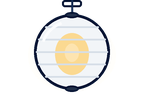
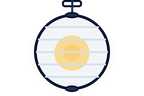
wip: decor sprites autosave
Claude-Session: https://claude.ai/code/session_01MjAECvXWDY5nMr1AZDbAwP

diff --git a/hotel-city-tycoon/tools/art/decor_bedrooms.py b/hotel-city-tycoon/tools/art/decor_bedrooms.py
@@ -513,29 +513,32 @@ def wallArt_bedsideSconce(c: Canvas) -> None:
     wedge is what fills the canvas the frame would have.
     """
     cx, cy = c.w / 2, c.h / 2
-    plate = (cx - 15.0, cy - 12.0)
-    elbow = (cx - 4.0, cy - 25.0)
+    plate = (cx - 18.0, cy - 10.0)
+    elbow = (cx - 4.0, cy - 27.0)
     tilt = math.radians(24.0)
     # The drum's axis points down and to the left, toward the bed.
     dx, dy = -math.sin(tilt), math.cos(tilt)
     px, py = math.cos(tilt), math.sin(tilt)
-    sc = (cx + 8.0, cy - 15.0)
-    half_w, half_h = 10.0, 7.0
+    sc = (cx + 11.0, cy - 14.0)
+    half_w, half_h = 12.0, 8.5
 
-    # The fan of light: three nested wedges from the mouth of the shade, at
-    # the low opacities `_glow` uses, aimed a little left of straight down.
+    # The fan of light: three nested wedges from the mouth of the shade,
+    # aimed a little left of straight down. Warmer than `_glow`'s halo and a
+    # step more opaque, because this room's wall is cream and a cream glow
+    # on a cream wall is no glow at all.
     ax, ay = sc[0] + dx * (half_h + 1.0), sc[1] + dy * (half_h + 1.0)
-    for r, a in ((42.0, 0.08), (32.0, 0.09), (22.0, 0.11)):
-        c.pie(ax, ay, r, r, 50, 152, fill=alpha(P["creamHi"], a))
+    warm = mix(P["cream"], GOLD, 0.45)
+    for r, a in ((42.0, 0.13), (32.0, 0.14), (22.0, 0.16)):
+        c.pie(ax, ay, r, r, 50, 152, fill=alpha(warm, a))
 
     # The backplate and the arm.
-    c.circle(plate[0], plate[1], 8.5, fill=GOLD, ink=P["ink"], lw=LW_PROP)
-    c.circle(plate[0], plate[1], 5.0, fill=tint(GOLD, 0.28), ink=P["ink"], lw=LW_FACE)
-    c.circle(plate[0] - 3.4, plate[1] - 3.4, 1.4, fill=GOLD_HI)
+    c.circle(plate[0], plate[1], 10.0, fill=GOLD, ink=P["ink"], lw=LW_PROP)
+    c.circle(plate[0], plate[1], 6.0, fill=tint(GOLD, 0.28), ink=P["ink"], lw=LW_FACE)
+    c.circle(plate[0] - 4.0, plate[1] - 4.0, 1.6, fill=GOLD_HI)
     top = (sc[0] - dx * half_h, sc[1] - dy * half_h)
-    _tube(c, [plate, elbow, top], 2.8, GOLD)
+    _tube(c, [plate, elbow, top], 3.2, GOLD)
     for jx, jy in (plate, elbow):
-        c.circle(jx, jy, 2.4, fill=GOLD_DK, ink=P["ink"], lw=LW_FACE)
+        c.circle(jx, jy, 2.7, fill=GOLD_DK, ink=P["ink"], lw=LW_FACE)
 
     # The drum: a rotated rectangle with pleat lines along its axis, a dark
     # cap at the top and a lit mouth at the bottom.
@@ -543,15 +546,15 @@ def wallArt_bedsideSconce(c: Canvas) -> None:
                for s, t in ((-1, -1), (1, -1), (1, 1), (-1, 1))]
     c.poly(corners, fill=P["linen"], ink=P["ink"], lw=LW_PROP)
     for k in range(-2, 3):
-        u = k * 3.6
+        u = k * 4.4
         c.line([(sc[0] + px * u - dx * (half_h - 1.4), sc[1] + py * u - dy * (half_h - 1.4)),
                 (sc[0] + px * u + dx * (half_h - 1.4), sc[1] + py * u + dy * (half_h - 1.4))],
                P["linenSh"], 0.9)
-    c.poly(_oval(sc[0] - dx * half_h, sc[1] - dy * half_h, half_w, 2.4, tilt),
+    c.poly(_oval(sc[0] - dx * half_h, sc[1] - dy * half_h, half_w, 2.8, tilt),
            fill=shade(P["linen"], 0.20), ink=P["ink"], lw=LW_FACE)
-    c.poly(_oval(sc[0] + dx * half_h, sc[1] + dy * half_h, half_w, 2.6, tilt),
+    c.poly(_oval(sc[0] + dx * half_h, sc[1] + dy * half_h, half_w, 3.0, tilt),
            fill=P["cream"], ink=P["ink"], lw=LW_FACE)
-    c.poly(_oval(sc[0] + dx * half_h, sc[1] + dy * half_h, 3.2, 1.3, tilt), fill=P["creamHi"])
+    c.poly(_oval(sc[0] + dx * half_h, sc[1] + dy * half_h, 3.8, 1.5, tilt), fill=P["creamHi"])
 
 
 def lighting_paperLantern(c: Canvas) -> None:
@@ -569,19 +572,21 @@ def lighting_paperLantern(c: Canvas) -> None:
     gy = drop + r
     paper = P["linen"]
 
-    _glow(c, cx, gy + 2.0, 22.0)
+    # The halo leans to gold: the standard room's wall is cream, and the
+    # cream halo `_glow` draws by default disappears into it.
+    _glow(c, cx, gy + 2.0, 22.0, colour=mix(P["cream"], GOLD, 0.50))
     _ceiling_plate(c, cx, 10.0, colour=P["white"])
     _cord(c, cx, drop, colour=P["ink2"])
     c.circle(cx, gy, r, fill=paper, ink=P["ink"], lw=LW_PROP)
-    # The bulb through the paper: a warm oval, then the bulb itself.
-    c.ellipse(cx, gy + 1.0, 8.5, 10.5, fill=P["cream"])
-    c.ellipse(cx, gy + 0.4, 3.6, 4.6, fill=P["creamHi"])
+    # The bulb through the paper: a warm disc with a warmer core. A lighter
+    # core read as a ring; the bulb is the yellowest point, not the whitest.
+    c.circle(cx, gy + 0.6, 8.8, fill=P["cream"])
+    c.circle(cx, gy + 0.4, 4.2, fill=mix(P["cream"], GOLD, 0.40))
     # The ribs: chords at latitude, in shadow linen. Five, not fifteen.
     for k in (-2, -1, 0, 1, 2):
         ry = gy + k * 6.2
         hw = math.sqrt(max(0.0, r * r - (ry - gy) ** 2)) - 1.4
         c.line([(cx - hw, ry), (cx + hw, ry)], P["linenSh"], 0.9)
-    c.arc(cx, gy, r - 3.0, r - 3.0, 200, 250, P["white"], 1.4)
     # The wire collars at the poles, so the paper hangs from something.
     c.ellipse(cx, gy - r + 0.6, 3.6, 1.6, fill=P["black"], ink=P["ink"], lw=LW_FACE)
     c.ellipse(cx, gy + r - 0.6, 3.6, 1.6, fill=P["black"], ink=P["ink"], lw=LW_FACE)
